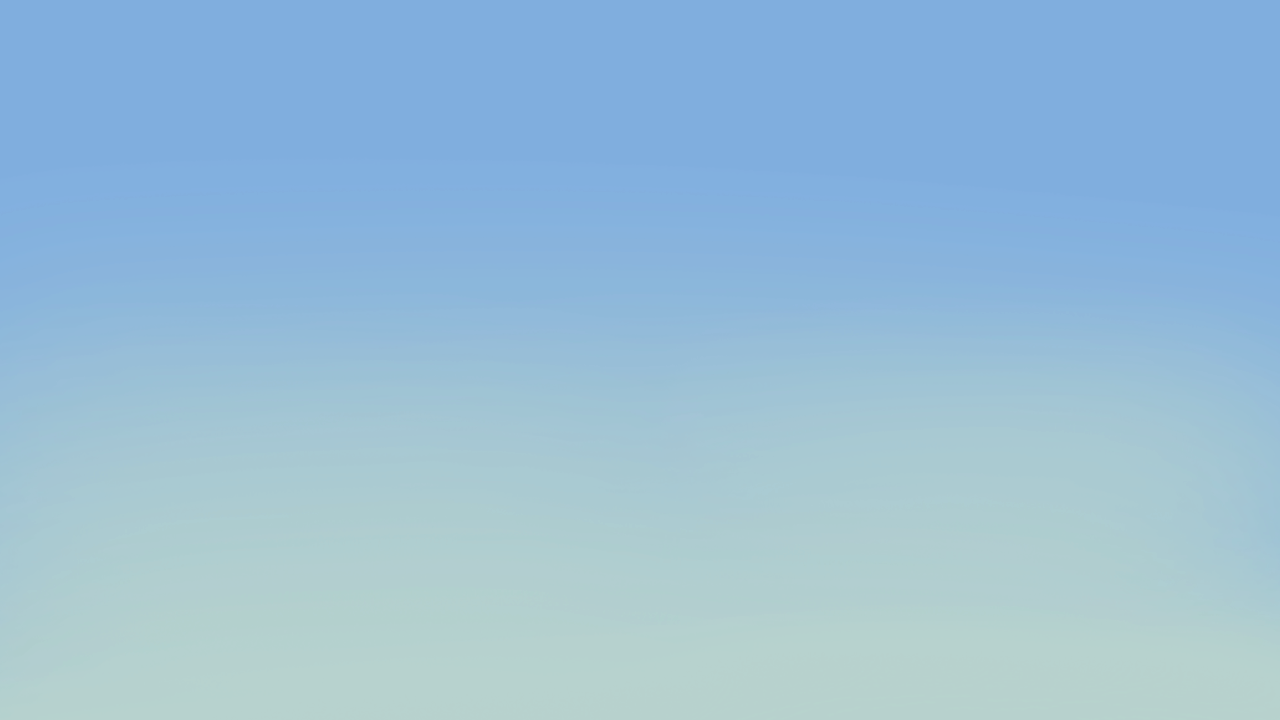
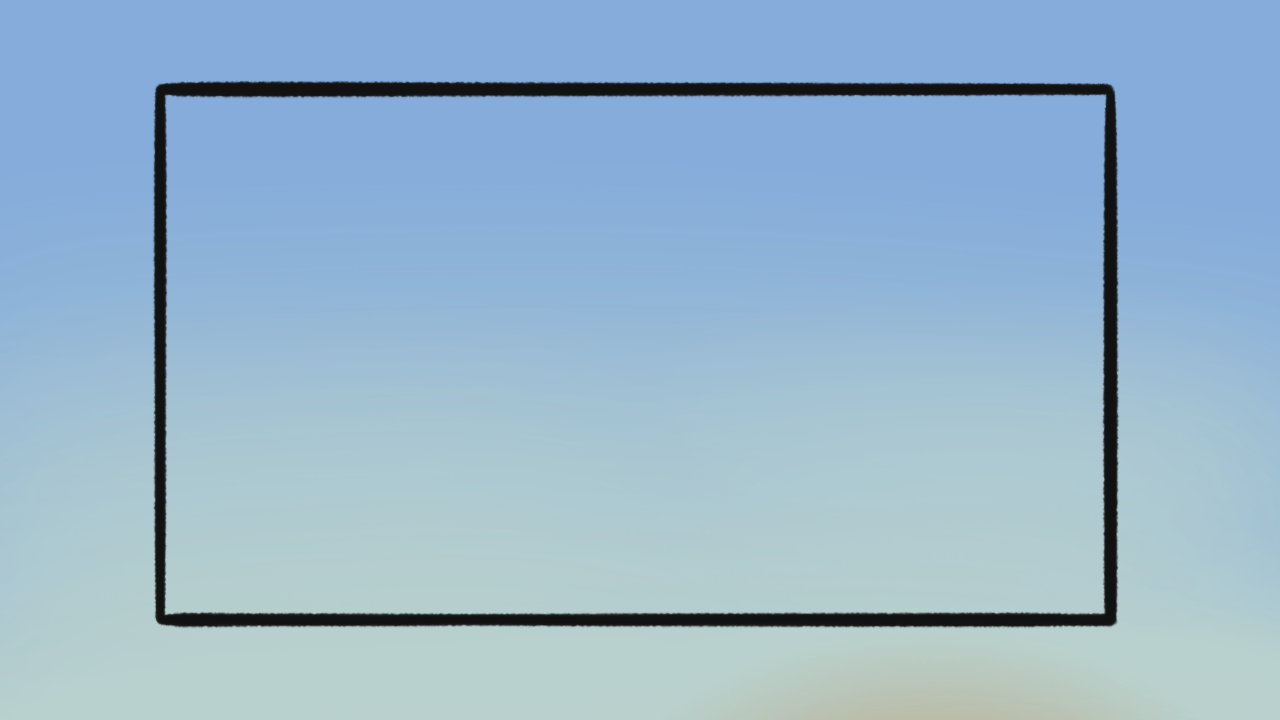
game works and with timer

Changed region(s): [[0.0938, 0.0917, 0.875, 0.8861], [0.625, 0.9472, 0.8438, 1.0]]

diff --git a/src/main.py b/src/main.py
@@ -93,14 +93,28 @@ def game_loop(webcam):
 
     fps = 30
     clock = pygame.time.Clock()
+    counter = 25
+    offset = 0
+    font = pygame.font.SysFont('Consolas', 30)
+    text = font.render(str(counter), True, (0, 128, 0))
+
+
+    time_delay = 1000
+    timer_event = pygame.USEREVENT+1
+    pygame.time.set_timer(timer_event, time_delay)
+
+    pygame.time.set_timer(pygame.USEREVENT, time_delay)
 
     shapeDict = {'triangle': 0, 'square': 0, 'pentagon': 0, 
                  'hexagon': 0, 'octagon': 0}
     
     bg = pygame.image.load("src/assets/BORDER_GRAD.png").convert()
-    #bg_border = 
+    tessy1 = pygame.image.load("src/assets/tessy1.png")
+    bg_border = pygame.draw.rect(window, [  0,  0, 223], (1000,1000,25,25), 0)
 
     start = True
+    on_time = True
+
     drawing = True
     task = get_shape()
     print(task)
@@ -110,6 +124,9 @@ def game_loop(webcam):
             if event.type == pygame.QUIT:
                 start = False
                 pygame.quit()
+            if event.type == pygame.USEREVENT:
+                counter -= 1
+                text = font.render(str(counter), True, (0, 128, 0))
 
         # OpenCV
         success, img = webcam.read()
@@ -135,12 +152,24 @@ def game_loop(webcam):
             print ("Nice!!")
             shapeDict = clear_dict(shapeDict)
             task = get_shape()
+            offset+=2
+            counter = 25 - offset
             print(task)
         elif check(shapeDict, task) == False:
             print ("NO!!!!! >:(")
             shapeDict = clear_dict(shapeDict)
             task = get_shape()
+            offset+=2
+            counter = 25 - offset
             print(task)
+
+        if counter == 0:
+            print("no time, you lose!")
+            shapeDict = clear_dict(shapeDict)
+            task = get_shape()
+            print(task)
+            start = False
+            pygame.quit()
 
 
         imgContour = cv2.cvtColor(imgContour.copy(), cv2.COLOR_BGR2RGB)
@@ -152,7 +181,10 @@ def game_loop(webcam):
         window.blit(bg, (0,0))
         window.blit(frame, (155, 90))
 
-        pygame.display.update()
+        window.blit(text, (0,0))
+        window.blit(tessy1, (0,0))
+
+        pygame.display.flip()
 
         clock.tick(fps)
 
